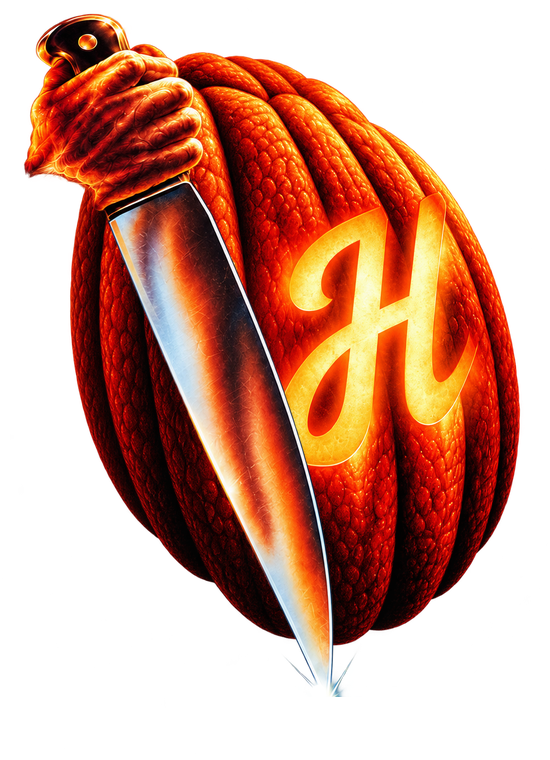
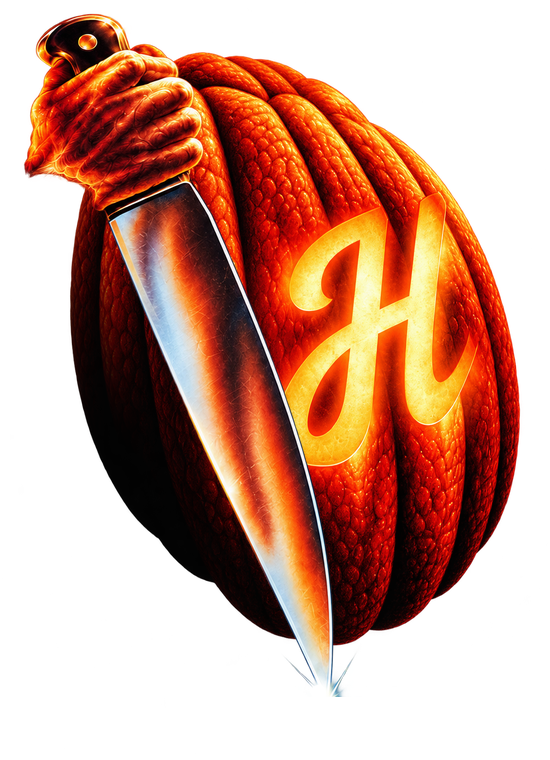
Shade the pumpkin left of the blade, as in the poster
prep_layers.py now bakes a soft shadow into the pumpkin layer: it falls
to black from just behind the blade's left edge outwards, keeping a
little light up by the hand. Rebuilt pumpkin.png and art.png.

Claude-Session: https://claude.ai/code/session_01NMVNYnpwVszeDejamPbeN9

Changed region(s): [[0.1236, 0.2421, 0.4636, 0.8171], [0.4636, 0.8171, 0.4945, 0.8474]]

diff --git a/halloween-at-henderson/motion/prep_layers.py b/halloween-at-henderson/motion/prep_layers.py
@@ -60,7 +60,19 @@ k_a[(r < 80) & (yy > TIP[1] + 4)] = 0
 save(knife_rgb, k_a, ART, "knife.png")
 
 # ---- pumpkin (complete; nothing hidden behind the knife any more)
-save(pump_rgb, pump_a, ART, "pumpkin.png")
+# The poster lets the pumpkin fall into shadow left of the blade, so bake that
+# shade in: dark from just behind the blade's left edge outwards, a little light
+# kept up by the hand. (BLADE_EDGE: two points on the blade's left edge.)
+BLADE_EDGE = ((470, 550), (651, 950))
+def smooth(e0, e1, v):
+    v = np.clip((v - e0) / (e1 - e0), 0, 1)
+    return v * v * (3 - 2 * v)
+(ex0, ey0), (ex1, ey1) = BLADE_EDGE
+edge_x = ex0 + (yy - ey0) * (ex1 - ex0) / (ey1 - ey0)
+left = smooth(-45, 85, edge_x - xx)                 # 0 right of the blade -> 1 well left of it
+shade = 1 - left * (0.6 + 0.4 * smooth(500, 760, yy))
+pump_shaded = pump_rgb * shade[..., None]
+save(pump_shaded, pump_a, ART, "pumpkin.png")
 
 # ---- H carving glow: hot pixels inside the H box
 box = np.zeros((H, W), np.float32)
@@ -72,7 +84,7 @@ save(pump_rgb, hot * 255, ART, "h_glow.png")
 
 # ---- full composed art (static use)
 comp_a = pump_a / 255 + k_a / 255 * (1 - pump_a / 255)
-comp = (pump_rgb * (pump_a / 255)[..., None] * (1 - k_a / 255)[..., None] + knife_rgb * (k_a / 255)[..., None])
+comp = (pump_shaded * (pump_a / 255)[..., None] * (1 - k_a / 255)[..., None] + knife_rgb * (k_a / 255)[..., None])
 comp = comp / np.maximum(comp_a[..., None], 1e-4)
 save(comp, comp_a * 255, ART, "art.png")
 
